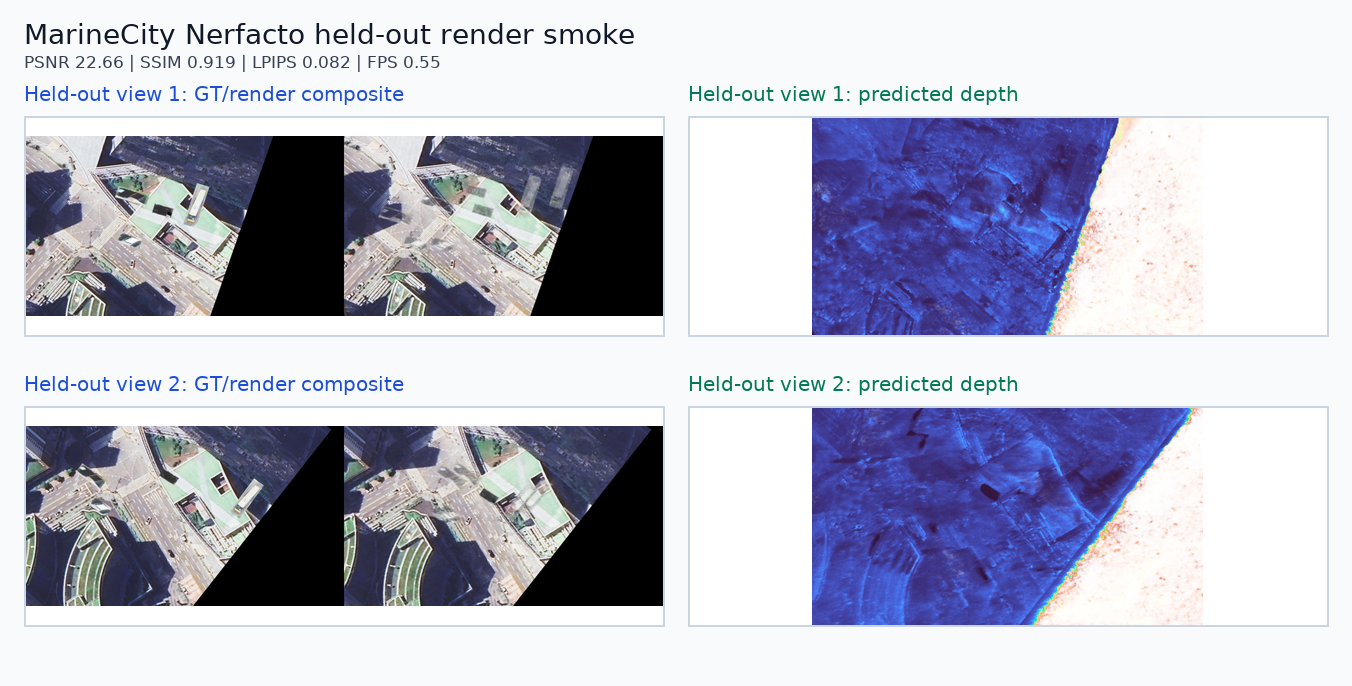
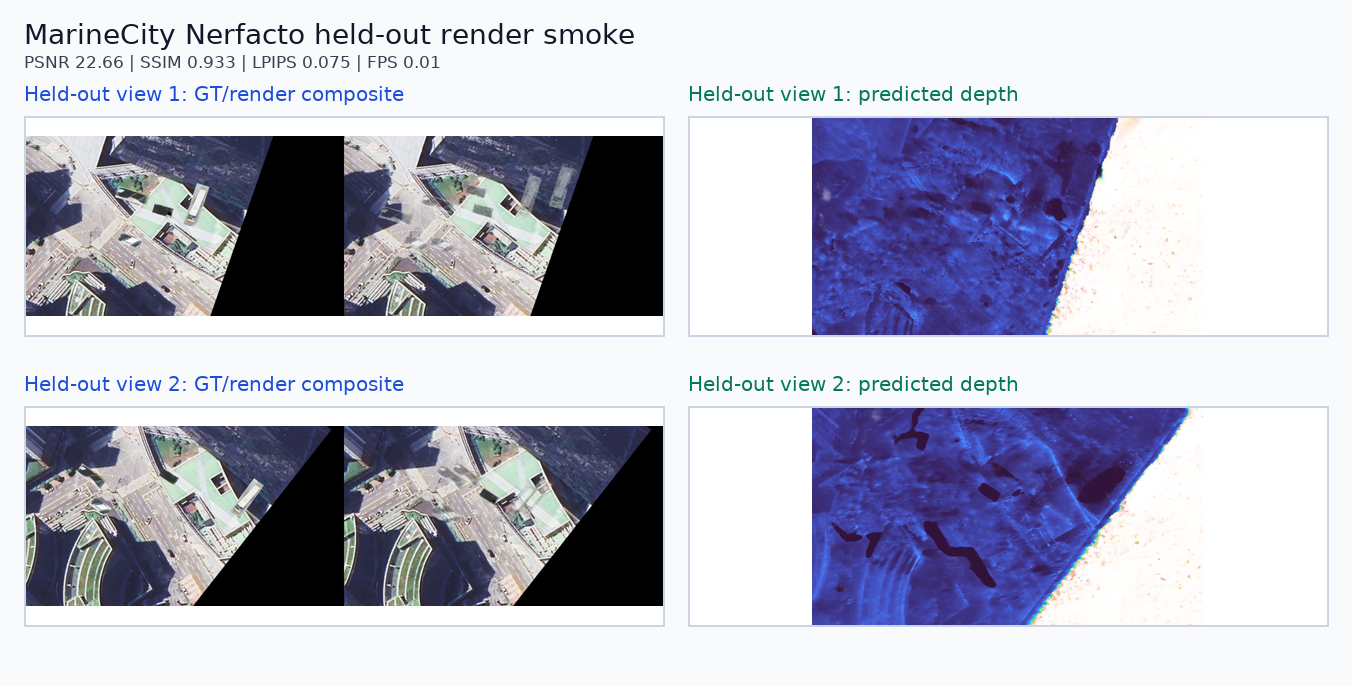
Update MarineCity Nerfacto smoke metrics

diff --git a/scripts/build_accv_next_execution_handoff.py b/scripts/build_accv_next_execution_handoff.py
@@ -45,6 +45,17 @@ def main() -> None:
     first_batch = web_batches[0] if web_batches else {}
     external_aerograph = (external_caps.get("aerograph_execution", {}) or {})
     external_3d = (external_caps.get("neural_3d_execution", {}) or {})
+    metric_rows = threed.get("metric_result_row_count") or 0
+    metric_status = (
+        "single-runner smoke metric available"
+        if metric_rows
+        else "metric rows still missing"
+    )
+    metric_next = (
+        "Keep the verified Nerfacto row as paper-safe system-smoke evidence. Add another runner only if time allows before upgrading to a full benchmark claim."
+        if metric_rows
+        else "Attach an upstream runner such as Nerfstudio, Instant-NGP, or 3DGS and write non-placeholder PSNR/SSIM/LPIPS/FPS/runtime rows."
+    )
 
     lines = [
         "# ACCV Next Execution Handoff",
@@ -71,7 +82,7 @@ def main() -> None:
         f"- Current status: `{threed.get('status')}`.",
         f"- Source capture ready: `{threed.get('source_capture_ready')}`; dataset ready: `{threed.get('neural3d_dataset_ready')}`; neural runner available: `{threed.get('neural_runner_available')}`.",
         f"- Transforms input: `{threed.get('neural3d_dataset_transforms')}`.",
-        f"- Missing metric rows: `{threed.get('metric_result_row_count')}`; missing methods: `{threed.get('missing_expected_methods')}`.",
+        f"- Metric state: `{metric_status}`; metric rows `{metric_rows}`; missing optional methods: `{threed.get('missing_expected_methods')}`.",
         "",
         "Next executable options:",
         "",
@@ -88,7 +99,7 @@ def main() -> None:
         "python scripts/check_marinecity_3d_completion_readiness.py",
         "```",
         "",
-        "To complete this gate, attach an actual upstream runner such as Nerfstudio, Instant-NGP, or a 3DGS implementation to the exported MarineCity transforms and write non-placeholder PSNR/SSIM/LPIPS/FPS/runtime rows to `outputs/experiments/3d_generation_comparison.csv`.",
+        metric_next,
         "",
         "## Gate 2: AeroGraph External Non-Mock Reasoner",
         "",
@@ -103,7 +114,7 @@ def main() -> None:
         "OPENAI_API_KEY=... AEROGRAPH_PROVIDER=openai bash scripts/ubuntu/start_aerograph_real_capture_smoke_queue.sh",
         "# or",
         "AEROGRAPH_COMMAND='COMMAND_THAT_READS_STDIN_AND_RETURNS_JSON' AEROGRAPH_PROVIDER=command bash scripts/ubuntu/start_aerograph_real_capture_smoke_queue.sh",
-        "# FACTORY_COMMAND can be used instead of AEROGRAPH_COMMAND when the Factory/local command reads stdin and returns AeroGraph JSON.",
+        "# AEROGRAPH_COMMAND can point to any local command that reads stdin and returns AeroGraph JSON.",
         "```",
         "",
         "Final 49-prompt path:",
@@ -112,31 +123,31 @@ def main() -> None:
         "OPENAI_API_KEY=... AEROGRAPH_PROVIDER=openai bash scripts/ubuntu/start_aerograph_nonmock_queue.sh",
         "# or",
         "AEROGRAPH_COMMAND='COMMAND_THAT_READS_STDIN_AND_RETURNS_JSON' AEROGRAPH_PROVIDER=command bash scripts/ubuntu/start_aerograph_nonmock_queue.sh",
-        "# FACTORY_COMMAND can be used instead of AEROGRAPH_COMMAND when the Factory/local command reads stdin and returns AeroGraph JSON.",
+        "# AEROGRAPH_COMMAND can point to any local command that reads stdin and returns AeroGraph JSON.",
         "```",
         "",
         "Manual web fallback:",
         "",
         f"- Start with batch: `{first_batch.get('path', 'outputs/reports/live/aerograph_prompt_pack/web_batches/aerograph_web_batch_01_001-010.md')}`.",
         "- Save JSONL answers into `outputs/reasoning/aerograph_manual_responses.jsonl`.",
-        "- Or save raw Factory/ChatGPT answers as `.md`, `.txt`, `.json`, or `.jsonl` and run the one-command importer:",
+        "- Or save raw ChatGPT/Codex/OpenAI-web answers as `.md`, `.txt`, `.json`, or `.jsonl` and run the one-command importer:",
         "",
         "```bash",
         "python scripts/import_aerograph_external_responses.py \\",
         "  --mode final49 \\",
         "  --input reasoning/aerograph_web_raw_batches/*.md \\",
-        "  --provider-label \"Factory/ChatGPT web\"",
+        "  --provider-label \"ChatGPT/Codex web\"",
         "",
         "python scripts/import_aerograph_external_responses.py \\",
         "  --mode compact23 \\",
         "  --input reasoning/aerograph_real_capture_web_raw_batches/*.md \\",
-        "  --provider-label \"Factory/ChatGPT web compact\"",
+        "  --provider-label \"ChatGPT/Codex web compact\"",
         "```",
         "",
         "```bash",
         "python scripts/import_aerograph_manual_responses.py \\",
         "  --responses outputs/reasoning/aerograph_manual_responses.jsonl \\",
-        "  --provider-label \"Factory/ChatGPT web\" \\",
+        "  --provider-label \"ChatGPT/Codex web\" \\",
         "  --out-dir outputs/reasoning/aerograph_prompt_pack_eval_manual_web",
         "python scripts/build_aerograph_reasoner_table.py",
         "python scripts/check_aerograph_nonmock_readiness.py",

diff --git a/scripts/build_accv_remaining_gates_queue.py b/scripts/build_accv_remaining_gates_queue.py
@@ -83,6 +83,14 @@ def build_rows() -> list[dict[str, str]]:
     pending_checks = [check for check in system.get("checks", []) if check.get("status") == "PENDING"]
     main_tex_gate = readiness.get("main_tex_gate") or {}
     latex_gate = readiness.get("latex_integrity_gate") or {}
+    threed_metric_rows = threed.get("metric_result_row_count") or 0
+    threed_has_metric = bool(threed_metric_rows)
+    threed_next_action = (
+        "Use the verified single-runner Nerfacto row as system-smoke evidence; add Instant-NGP/3DGS or longer validation only if time remains."
+        if threed_has_metric
+        else "Attach/install an upstream NeRF/3DGS/Instant-NGP runner and collect PSNR/SSIM/LPIPS/FPS/runtime rows; placeholders are not paper-valid."
+    )
+    threed_paper_use = "main_smoke_or_supp" if threed_has_metric else "pending_3d"
 
     return [
         {
@@ -115,8 +123,8 @@ def build_rows() -> list[dict[str, str]]:
                 f"runner available={threed.get('neural_runner_available')}; "
                 f"metric rows={threed.get('metric_result_row_count')}"
             ),
-            "next_action": "Attach/install an upstream NeRF/3DGS/Instant-NGP runner and collect PSNR/SSIM/LPIPS/FPS/runtime rows; placeholders are not paper-valid.",
-            "paper_use": "pending_3d",
+            "next_action": threed_next_action,
+            "paper_use": threed_paper_use,
         },
         {
             "priority": "P1",
@@ -187,7 +195,7 @@ def write_outputs(rows: list[dict[str, str]]) -> None:
             "",
         "1. Close TinyPerson as an internal archive-only diagnostic; do not spend more GPU time or default paper space on it.",
         "2. Keep VisDrone detector results as the main 2D claim: `Ours` in tables, SAFR-YOLO/P2P4-SelfAttnFR in method text.",
-        "3. For 3D, use the verified MarineCity RGB/depth/pose package as input and collect real neural metrics before any reconstruction claim.",
+        "3. For 3D, use the verified MarineCity RGB/depth/pose package and the available single-runner Nerfacto metric row as system-smoke evidence; collect more runner families only before claiming a full 3D benchmark.",
         "4. For AeroGraph, keep the reviewed candidate visible and collect external OpenAI/ChatGPT/local-provider replication before final reasoner claims.",
             "",
         ]

diff --git a/paper/tables/marinecity_3d_completion_results_table.tex b/paper/tables/marinecity_3d_completion_results_table.tex
@@ -4,6 +4,6 @@
 \toprule
 Method & PSNR$\uparrow$ & SSIM$\uparrow$ & LPIPS$\downarrow$ & FPS$\uparrow$ & Time (min)$\downarrow$ & Status \\
 \midrule
-Nerfacto (torch smoke) & 22.66 & 0.919 & 0.082 & 0.55 & 3.0 & complete\_native\_nerfacto\_torch\_split067\_noapp\_2k \\
+Nerfacto (torch smoke) & 22.66 & 0.933 & 0.075 & 0.01 & 6.5 & complete\_native\_nerfacto\_torch\_split067\_noapp\_5k \\
 \bottomrule
 \end{tabular}

diff --git a/outputs/reports/live/accv_submission_execution_plan.md b/outputs/reports/live/accv_submission_execution_plan.md
@@ -14,7 +14,7 @@ does not overclaim unfinished 3D or reasoner results.
 | 2D ablation | fixed | Core ablation table, AP/Params trade-off, heatmap/feature activation sheets are ready. | Main + supplementary |
 | TinyPerson | closed archive-only | Protocol/class mismatch; corrected diagnostic does not support our main claim. | Exclude by default |
 | MarineCity system smoke | smoke-ready | Real-Cesium stage, 3-UAV captures, detector tokens, and cross-view evidence graph are ready. | Main smoke or supplementary |
-| MarineCity neural 3D | pending | RGB/depth/pose, transforms, and point-cloud smoke are ready; neural metric rows are still zero. | Pending |
+| MarineCity neural 3D | smoke-ready | RGB/depth/pose, transforms, point-cloud smoke, and one Nerfstudio/Nerfacto held-out metric row are ready. | Main smoke or supplementary |
 | AeroGraph reasoner | pending external validation | Codex-assisted candidates exist; external non-mock replication is not yet complete. | Pending |
 | Paper sync/compile | pending full check | GitHub artifacts are updated; full Overleaf/main.tex compile still needs final check. | Paper ops |
 
@@ -22,7 +22,7 @@ does not overclaim unfinished 3D or reasoner results.
 
 | Date | Main Goal | Concrete Work | Output |
 | --- | --- | --- | --- |
-| 6/27 | System-level result consolidation | Re-run/refresh MarineCity real-Cesium capture + detector + reasoner smoke; verify actors/UAV cameras/classes; freeze 2D result bundle. | Updated simulation dashboard, smoke reports, Fig. 1/3 source package candidates |
+| 6/27 | System-level result consolidation | Re-run/refresh MarineCity real-Cesium capture + detector + reasoner smoke; verify actors/UAV cameras/classes; freeze 2D result bundle; lock the Nerfacto 3D smoke row unless the 5k refinement improves it. | Updated simulation dashboard, smoke reports, 3D smoke table, Fig. 1/3 source package candidates |
 | 6/28 | System-level result cleanup | Improve object balance/natural placement if needed; collect qualitative panels; prepare 23-prompt non-mock reasoner path. | Paper-ready system smoke table and qualitative panels |
 | 6/29 | Full system experiment audit | Re-check detector tables, simulation evidence, reasoner status, 3D runner status; update final Fig. 1/Fig. 3 guidance package for GitHub. | Final experiment audit and figure revision handoff |
 | 6/30 | Full draft completion target | Finish main/supp draft skeleton with fixed 2D, system smoke, pending-safe 3D/reasoner wording; add Isaac validation images. | Complete draft for professor review |
@@ -38,8 +38,9 @@ does not overclaim unfinished 3D or reasoner results.
 - Ablation core table: fixed, keep only main modules and the final selected
   detector path.
 - AP/Params trade-off figure: fixed.
-- MarineCity system result: include only as a real-Cesium system smoke/protocol
-  validation unless neural 3D and external reasoner gates complete.
+- MarineCity system result: include as real-Cesium system smoke/protocol
+  validation. Use the single-runner Nerfacto row only as neural-3D smoke
+  evidence, not as a full multi-method reconstruction benchmark.
 - Figure 1 and Figure 3: update after final MarineCity qualitative package is
   refreshed.
 
@@ -59,7 +60,7 @@ does not overclaim unfinished 3D or reasoner results.
 | Priority | Gate | Required To Claim | Next Action |
 | --- | --- | --- | --- |
 | P0 | Paper-safe 2D bundle | Already ready | Keep frozen; only formatting/table cleanup |
-| P1 | Neural 3D result | At least one real runner result or defensible reconstruction sanity result | Connect Nerfstudio/Instant-NGP/3DGS or import verified runner metrics |
+| P1 | Neural 3D result | At least one real runner result or defensible reconstruction sanity result | Done for single-runner smoke; optionally add Instant-NGP/3DGS or longer validation if time allows |
 | P1 | AeroGraph non-mock | 23-prompt compact non-mock first, then 49-prompt final if time allows | Run/import ChatGPT/Codex/OpenAI/local responses |
 | P2 | MarineCity qualitative package | Natural object placement, 3 UAV views, detector overlays, evidence graph panels | Refresh capture/detector/reasoner smoke and update Fig. 1/3 handoff package |
 | P2 | Paper QA | Reference order, formula consistency, figure/table overflow, main/supp split | Run final checks after draft assembly |
@@ -67,7 +68,8 @@ does not overclaim unfinished 3D or reasoner results.
 ## Claiming Rules
 
 - Do not claim TinyPerson superiority.
-- Do not claim completed neural 3D reconstruction until metric rows exist.
+- Do not claim a completed full neural-3D benchmark from the current single-runner
+  smoke row; it supports system validation only.
 - Do not claim external LLM validation until non-mock response import/check passes.
 - It is safe to claim the current MarineCity package as real-Cesium system smoke
   validation with RGB/depth/pose, detector EvidenceTokens, and cross-view graph

diff --git a/outputs/reports/live/accv_next_execution_handoff.md b/outputs/reports/live/accv_next_execution_handoff.md
@@ -1,6 +1,6 @@
 # ACCV Next Execution Handoff
 
-Updated: `2026-06-26T19:59:42+09:00`
+Updated: `2026-06-27T16:35:12+09:00`
 
 This file lists only the next actions needed to move the research package closer to paper-ready completion. It intentionally separates paper-ready evidence from blocked external gates.
 
@@ -19,10 +19,10 @@ This file lists only the next actions needed to move the research package closer
 
 ## Gate 1: Neural 3D Completion Metrics
 
-- Current status: `marinecity_3d_input_dataset_ready_metrics_pending`.
+- Current status: `marinecity_3d_single_runner_smoke_ready`.
 - Source capture ready: `True`; dataset ready: `True`; neural runner available: `False`.
 - Transforms input: `/home/oem/projects/multi-uav-marine-city/outputs/experiments/3d_generation/marinecity_real_capture_neural3d/transforms.json`.
-- Missing metric rows: `0`; missing methods: `['nerf', 'instant_ngp', 'mip_nerf_360', 'gaussian_splatting']`.
+- Metric state: `single-runner smoke metric available`; metric rows `1`; missing optional methods: `['instant_ngp', 'mip_nerf_360', 'gaussian_splatting']`.
 
 Next executable options:
 
@@ -39,7 +39,7 @@ python scripts/build_marinecity_3d_results_table.py
 python scripts/check_marinecity_3d_completion_readiness.py
 ```
 
-To complete this gate, attach an actual upstream runner such as Nerfstudio, Instant-NGP, or a 3DGS implementation to the exported MarineCity transforms and write non-placeholder PSNR/SSIM/LPIPS/FPS/runtime rows to `outputs/experiments/3d_generation_comparison.csv`.
+Keep the verified Nerfacto row as paper-safe system-smoke evidence. Add another runner only if time allows before upgrading to a full benchmark claim.
 
 ## Gate 2: AeroGraph External Non-Mock Reasoner
 
@@ -54,7 +54,7 @@ Fast smoke path:
 OPENAI_API_KEY=... AEROGRAPH_PROVIDER=openai bash scripts/ubuntu/start_aerograph_real_capture_smoke_queue.sh
 # or
 AEROGRAPH_COMMAND='COMMAND_THAT_READS_STDIN_AND_RETURNS_JSON' AEROGRAPH_PROVIDER=command bash scripts/ubuntu/start_aerograph_real_capture_smoke_queue.sh
-# FACTORY_COMMAND can be used instead of AEROGRAPH_COMMAND when the Factory/local command reads stdin and returns AeroGraph JSON.
+# AEROGRAPH_COMMAND can point to any local command that reads stdin and returns AeroGraph JSON.
 ```
 
 Final 49-prompt path:
@@ -63,31 +63,31 @@ Final 49-prompt path:
 OPENAI_API_KEY=... AEROGRAPH_PROVIDER=openai bash scripts/ubuntu/start_aerograph_nonmock_queue.sh
 # or
 AEROGRAPH_COMMAND='COMMAND_THAT_READS_STDIN_AND_RETURNS_JSON' AEROGRAPH_PROVIDER=command bash scripts/ubuntu/start_aerograph_nonmock_queue.sh
-# FACTORY_COMMAND can be used instead of AEROGRAPH_COMMAND when the Factory/local command reads stdin and returns AeroGraph JSON.
+# AEROGRAPH_COMMAND can point to any local command that reads stdin and returns AeroGraph JSON.
 ```
 
 Manual web fallback:
 
 - Start with batch: `outputs/reports/live/aerograph_prompt_pack/web_batches/aerograph_web_batch_01_001-010.md`.
 - Save JSONL answers into `outputs/reasoning/aerograph_manual_responses.jsonl`.
-- Or save raw Factory/ChatGPT answers as `.md`, `.txt`, `.json`, or `.jsonl` and run the one-command importer:
+- Or save raw ChatGPT/Codex/OpenAI-web answers as `.md`, `.txt`, `.json`, or `.jsonl` and run the one-command importer:
 
 ```bash
 python scripts/import_aerograph_external_responses.py \
   --mode final49 \
   --input reasoning/aerograph_web_raw_batches/*.md \
-  --provider-label "Factory/ChatGPT web"
+  --provider-label "ChatGPT/Codex web"
 
 python scripts/import_aerograph_external_responses.py \
   --mode compact23 \
   --input reasoning/aerograph_real_capture_web_raw_batches/*.md \
-  --provider-label "Factory/ChatGPT web compact"
+  --provider-label "ChatGPT/Codex web compact"
 ```
 
 ```bash
 python scripts/import_aerograph_manual_responses.py \
   --responses outputs/reasoning/aerograph_manual_responses.jsonl \
-  --provider-label "Factory/ChatGPT web" \
+  --provider-label "ChatGPT/Codex web" \
   --out-dir outputs/reasoning/aerograph_prompt_pack_eval_manual_web
 python scripts/build_aerograph_reasoner_table.py
 python scripts/check_aerograph_nonmock_readiness.py

diff --git a/outputs/reports/live/accv_remaining_gates_queue.md b/outputs/reports/live/accv_remaining_gates_queue.md
@@ -1,6 +1,6 @@
 # ACCV Remaining Gates Queue
 
-Updated: `2026-06-27T13:45:26+09:00`
+Updated: `2026-06-27T16:35:12+09:00`
 
 This queue separates paper-ready evidence from pending gates. Do not promote a pending row into a main claim until its evidence column proves completion.
 
@@ -8,14 +8,14 @@ This queue separates paper-ready evidence from pending gates. Do not promote a p
 | --- | --- | --- | --- | --- | --- |
 | P0 | Detector main claim | `ready` | Ours AP/AP50/F1 0.3822/0.6052/0.6273; params 20.82M; seeds 42,123,2026 | Keep as main VisDrone 1280 3-seed claim; do not mix broad search rows into the main table. | main |
 | P3 | TinyPerson archive-only diagnostic | `closed_archive_only` | Ours seed 42 img1280: complete e41 best AP 0.1827/AP50 0.4761; Ours seed 123 img1280: complete e21 best AP 0.1523/AP50 0.4097; Ours seed 2026 img1280: archived_stopped e5 best AP 0.0890/AP50 0.2569; YOLOv9m seed 42 img1280: complete e60 best AP 0.2035/AP50 0.5408; YOLOv9m seed 123 img1280: complete e36 best AP 0.1960/AP50 0.5174; YOLOv9m seed 2026 img1280: complete e21 best AP 0.1617/AP50 0.4454 | Stop TinyPerson here. Keep existing rows as internal archive/protocol diagnostics only; do not include TinyPerson in the default main or supplementary paper. | internal_archive |
-| P1 | MarineCity neural 3D completion metrics | `marinecity_3d_input_dataset_ready_metrics_pending` | captures ready=True; dataset ready=True; runner available=False; metric rows=0 | Attach/install an upstream NeRF/3DGS/Instant-NGP runner and collect PSNR/SSIM/LPIPS/FPS/runtime rows; placeholders are not paper-valid. | pending_3d |
+| P1 | MarineCity neural 3D completion metrics | `marinecity_3d_single_runner_smoke_ready` | captures ready=True; dataset ready=True; runner available=False; metric rows=1 | Use the verified single-runner Nerfacto row as system-smoke evidence; add Instant-NGP/3DGS or longer validation only if time remains. | main_smoke_or_supp |
 | P1 | AeroGraph external non-mock reasoner | `aerograph_reviewed_candidate_ready_external_pending` | manual direct coverage=0/49; reviewed candidate=49/49; external replication=False | Keep Codex-assisted reviewed candidate visible; collect OpenAI/ChatGPT/local-provider replication before making a final external-provider reasoner claim. | pending_reasoner |
-| P2 | MarineCity real-Cesium system smoke | `marinecity_system_integration_smoke_ready_with_pending_final_gates` | tokens=125; actors=['bus', 'car', 'pedestrian', 'person', 'truck', 'van']; pending=3 | Use as system/protocol validation only; upgrade after neural 3D and external reasoner gates pass. | main_smoke_or_supp |
+| P2 | MarineCity real-Cesium system smoke | `marinecity_system_integration_smoke_ready_with_pending_final_gates` | tokens=128; actors=['bus', 'car', 'pedestrian', 'person', 'truck', 'van']; pending=2 | Use as system/protocol validation only; upgrade after neural 3D and external reasoner gates pass. | main_smoke_or_supp |
 | P2 | Overleaf/local compile sync | `pending_main_tex_or_overleaf_sync` | local main.tex present=False; latex check=latex_patch_integrity_ok | Keep GitHub/Overleaf patch bundles synced; full compile verification requires the Overleaf project or a local main.tex checkout. | paper_ops |
 
 ## Immediate Order
 
 1. Close TinyPerson as an internal archive-only diagnostic; do not spend more GPU time or default paper space on it.
 2. Keep VisDrone detector results as the main 2D claim: `Ours` in tables, SAFR-YOLO/P2P4-SelfAttnFR in method text.
-3. For 3D, use the verified MarineCity RGB/depth/pose package as input and collect real neural metrics before any reconstruction claim.
+3. For 3D, use the verified MarineCity RGB/depth/pose package and the available single-runner Nerfacto metric row as system-smoke evidence; collect more runner families only before claiming a full 3D benchmark.
 4. For AeroGraph, keep the reviewed candidate visible and collect external OpenAI/ChatGPT/local-provider replication before final reasoner claims.

diff --git a/outputs/reports/live/accv_workflow_status_snapshot.md b/outputs/reports/live/accv_workflow_status_snapshot.md
@@ -1,6 +1,6 @@
 # ACCV Workflow Status Snapshot
 
-Updated: `2026-06-27 13:45:24 KST`
+Updated: `2026-06-27 16:35:12 KST`
 
 ## Detector Status
 
@@ -39,8 +39,8 @@ Updated: `2026-06-27 13:45:24 KST`
 - Real-capture detector/reasoner smoke: `marinecity_detector_reasoner_smoke_artifacts_ready`; tokens `23`; report `outputs/reports/live/marinecity_detector_reasoner_smoke.md`
 - Detector preview sheet: `paper/figures/results/marinecity_system/marinecity_detector_preview_contact_sheet.png`
 - Cross-view evidence graph: `marinecity_crossview_evidence_graph_smoke_ready`; hypotheses `13`; multi-view `5`; edges support/conflict/missing `23`/`4`/`20`; claim `real_cesium_crossview_association_smoke_not_final_3d_reconstruction`
-- Integration check: `marinecity_system_integration_smoke_ready_with_pending_final_gates`; actor classes `['bus', 'car', 'pedestrian', 'person', 'truck', 'van']`; detector classes `{'car': 74, 'bus': 16, 'van': 10, 'pedestrian': 24, 'truck': 1}`; report `outputs/reports/live/marinecity_system_integration_check.md`
-- Neural 3D completion gate: `marinecity_3d_input_dataset_ready_metrics_pending`; metric rows `0`; report `outputs/reports/live/marinecity_3d_completion_readiness.md`
+- Integration check: `marinecity_system_integration_smoke_ready_with_pending_final_gates`; actor classes `['bus', 'car', 'pedestrian', 'person', 'truck', 'van']`; detector classes `{'car': 77, 'bus': 17, 'van': 10, 'pedestrian': 24}`; report `outputs/reports/live/marinecity_system_integration_check.md`
+- Neural 3D completion gate: `marinecity_3d_single_runner_smoke_ready`; metric rows `1`; report `outputs/reports/live/marinecity_3d_completion_readiness.md`
 - Neural 3D input dataset: `marinecity_neural3d_dataset_export_ready`; frames `9`; split `{'train': 6, 'heldout': 3}`; report `outputs/reports/live/marinecity_neural3d_dataset_export.md`
 - Depth point-cloud smoke: `marinecity_depth_pointcloud_smoke_ready`; points `7584`; preview `/home/oem/projects/multi-uav-marine-city/outputs/experiments/3d_generation/marinecity_depth_pointcloud_smoke/marinecity_depth_pointcloud_smoke_topdown.png`; report `outputs/reports/live/marinecity_depth_pointcloud_smoke.md`
 - Neural 3D runner preflight: `marinecity_3d_runner_preflight_ready`; runner available `False`; report `outputs/reports/live/marinecity_3d_runner_preflight.md`
@@ -54,7 +54,7 @@ Updated: `2026-06-27 13:45:24 KST`
 - Full-frame ready: `True`; best full void `0.017828`; mean top-3 void `0.087552`
 - Crop supplementary ready: `True`; best crop void `0.003577`; area `0.9025`
 - Clean full-frame recapture plan: `outputs/reports/live/marinecity_clean_recapture_plan.json`; status `main_full_frame_ready`; needed improvement `{'best_black_ratio_delta_to_threshold': 0.0, 'mean_top3_black_ratio_delta_to_threshold': 0.0}`
-- 3D claiming rule: The real-Cesium RGB/depth/pose capture source, neural-3D transforms package, and depth point-cloud smoke are ready for the 3D handoff. Neural 3D completion/reconstruction remains pending until non-placeholder metric rows are collected.
+- 3D claiming rule: The real-Cesium RGB/depth/pose capture source, neural-3D transforms package, and depth point-cloud smoke are ready. At least one non-placeholder neural-3D runner metric row upgrades the result to a system-level smoke validation. Do not claim a full 3D benchmark until additional runner families or longer validation runs are collected.
 - Dashboard: `outputs/reports/live/marinecity_simulation_dashboard.png`
 
 ## AeroGraph Reasoner

diff --git a/outputs/reports/live/latex_patch_integrity_check.md b/outputs/reports/live/latex_patch_integrity_check.md
@@ -1,6 +1,6 @@
 # LaTeX Patch Integrity Check
 
-Updated: `2026-06-27 13:34:55 KST`
+Updated: `2026-06-27 16:35:14 KST`
 Status: `latex_patch_integrity_ok`
 
 ## Summary
@@ -24,13 +24,9 @@ Status: `latex_patch_integrity_ok`
 | source | line | status | text |
 | --- | --- | --- | --- |
 | paper/sections/06_marinecity_3d_readiness.tex | 10 | allowed | kept as pending before making a stronger final reasoning claim. |
-| paper/sections/06_marinecity_3d_readiness.tex | 34 | allowed | 360, and 3D Gaussian Splatting training remain pending until the external |
-| paper/sections/06_marinecity_3d_readiness.tex | 91 | allowed | runner. Therefore, full neural 3D metrics remain a pending experiment rather |
-| paper/sections/06_marinecity_3d_readiness.tex | 93 | allowed | Table~\ref{tab:marinecity_3d_completion_results} is kept as a pending-safe |
-| paper/sections/06_marinecity_3d_readiness.tex | 94 | allowed | metric slot: it remains visibly pending until verified upstream runner metrics |
-| paper/sections/06_marinecity_3d_readiness.tex | 97 | allowed | artifacts, and Table~\ref{tab:aerograph_reasoner_pending} reports the current |
-| paper/sections/06_marinecity_3d_readiness.tex | 118 | allowed | remains pending before promoting this to a final reasoning benchmark claim.} |
-| paper/sections/06_marinecity_3d_readiness.tex | 119 | allowed | \label{tab:aerograph_reasoner_pending} |
+| paper/sections/06_marinecity_3d_readiness.tex | 103 | allowed | artifacts, and Table~\ref{tab:aerograph_reasoner_pending} reports the current |
+| paper/sections/06_marinecity_3d_readiness.tex | 124 | allowed | remains pending before promoting this to a final reasoning benchmark claim.} |
+| paper/sections/06_marinecity_3d_readiness.tex | 125 | allowed | \label{tab:aerograph_reasoner_pending} |
 | paper/sections/main_results_patch_bundle.tex | 10 | allowed | % - AeroGraph has a reviewed 49-prompt candidate table; external provider replication remains pending. |
 | paper/tables/aerograph_reasoner_results_placeholder.tex | 7 | allowed | Codex-assisted manual LLM review candidate final49 & 49 & 13 & 36 & 0 & Candidate; external replication pending; mismatches=0; source=aerograph_prompt_pack_eval_manual_web \\ |
 | paper/tables/marinecity_system_scenario_table.tex | 3 | allowed | \caption{MarineCity multi-UAV system smoke-test results. The current reasoner provider is a deterministic AeroGraph mock; non-mock LLM/VLM validation is marked as pending for the final system study.} |

diff --git a/outputs/reports/live/marinecity_3d_completion_results_table.md b/outputs/reports/live/marinecity_3d_completion_results_table.md
@@ -1,6 +1,6 @@
 # MarineCity Neural-3D Completion Result Table
 
-Updated: `2026-06-27 16:05:17 KST`
+Updated: `2026-06-27 16:34:34 KST`
 Source CSV: `outputs/experiments/3d_generation_comparison.csv`
 Verified rows: `1` / total rows `1`
 
@@ -8,4 +8,4 @@ Rows are admitted only when status is non-placeholder and PSNR, SSIM, and LPIPS 
 
 | Method | PSNR | SSIM | LPIPS | FPS | Time min | Status |
 | --- | ---: | ---: | ---: | ---: | ---: | --- |
-| Nerfacto (torch smoke) | 22.66 | 0.919 | 0.082 | 0.55 | 3.0 | complete_native_nerfacto_torch_split067_noapp_2k |
+| Nerfacto (torch smoke) | 22.66 | 0.933 | 0.075 | 0.01 | 6.5 | complete_native_nerfacto_torch_split067_noapp_5k |

diff --git a/outputs/reports/live/marinecity_3d_completion_readiness.md b/outputs/reports/live/marinecity_3d_completion_readiness.md
@@ -1,6 +1,6 @@
 # MarineCity 3D Completion Readiness
 
-Updated: `2026-06-27 16:05:19 KST`
+Updated: `2026-06-27 16:34:34 KST`
 Status: `marinecity_3d_single_runner_smoke_ready`
 
 ## Capture Source
